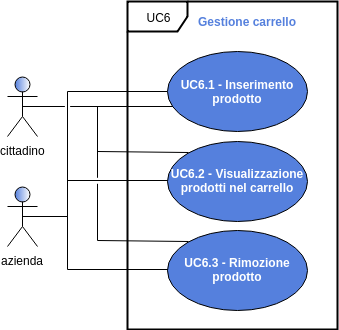
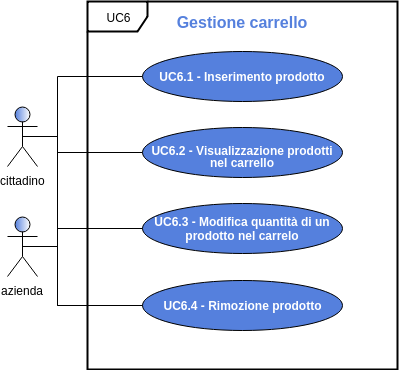
aggiunta la modifica di una quantità relatiav al prodotto nel carrello

diff --git a/RR/Esterni/Analisi_dei_requisiti/res/sections/UC/UC6-Gestione-carrello.tex b/RR/Esterni/Analisi_dei_requisiti/res/sections/UC/UC6-Gestione-carrello.tex
@@ -37,13 +37,24 @@
 		\item il nome;
 		\item la quantità;
 		\item il prezzo unitario;
-		
 	\end{itemize}
+	Inoltre è disponibile il prezzo totale dei prodotti.
+
 	\item \textbf{Scenario principale}: l'utente si trova all'interno della pagina del proprio carrello virtuale e può visualizzare la lista dei prodotti aggiunti al carrello;
 	\item \textbf{Precondizione}: l'utente deve essere all'interno della pagina del proprio carrello;
 	\item \textbf{Postcondizione}: l'utente ha potuto controllare la lista dei prodotti all'interno del proprio carrello.
 \end{itemize}
-\subsubsection{UC6.3 - Rimozione prodotto}
+
+\subsubsection{UC6.3 - Modifica quantità di un prodotto nel carrello}
+\begin{itemize}
+	\item \textbf{Attori Primari}: cittadino, azienda;
+	\item \textbf{Descrizione}: l'utente modifica la quantità di un prodotto presente nel proprio carrello;
+	\item \textbf{Scenario principale}: l'utente si trova all'interno della pagina del proprio carrello e modifica la quantità di un prodotto, utilizzando gli appositi pulsanti di incremento e decremento della quantità;
+	\item \textbf{Precondizione}: l'utente deve accedere alla pagina relativa al proprio carrello;
+	\item \textbf{Postcondizione}: la quantità del prodotto considerato è stata modificata come indicato dall'utente.
+\end{itemize}
+
+\subsubsection{UC6.4 - Rimozione prodotto}
 \begin{itemize}
 	\item \textbf{Attori Primari}: cittadino, azienda;
 	\item \textbf{Descrizione}: l'utente rimuove il prodotto selezionato dal proprio carrello;
